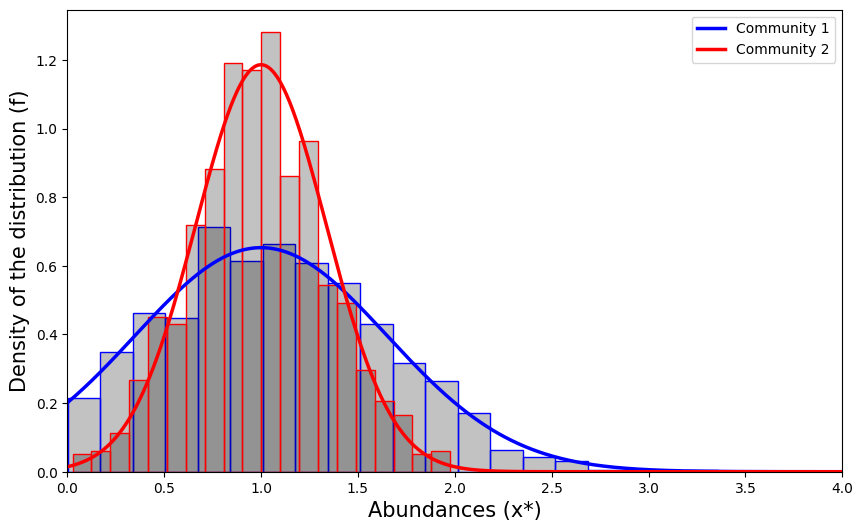
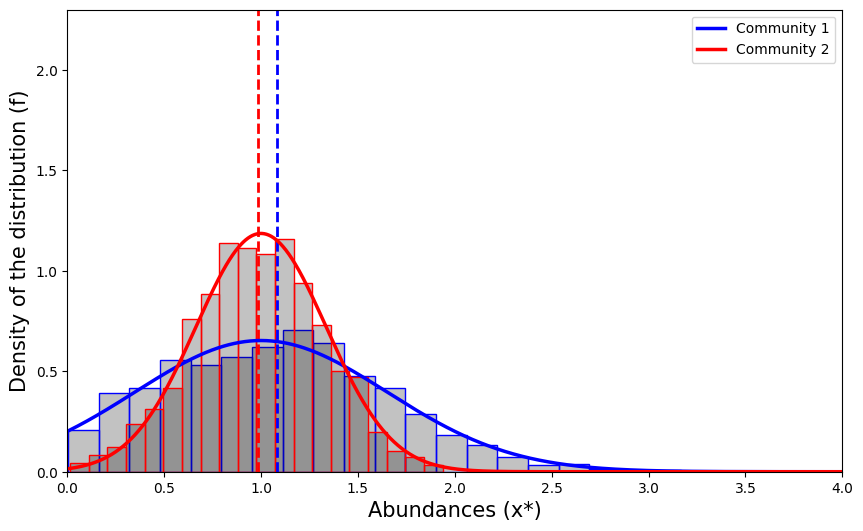
Update_Review

diff --git a/Code/Figure4-5.py b/Code/Figure4-5.py
@@ -84,10 +84,10 @@ def plot_distrib(mu, s, beta, B_size=2000, law_type='normal'):
     for i, v in enumerate(x):
         y_2[i] = block_density(v, 1, pi_1, pi_2, m_1, m_2,
                                sigma_1, sigma_2, mu, Sig, beta)
-    if law_type == 'normal':
-        plt.vlines(np.mean(res_lcp_pos_1),0,3,linewidth=2,linestyles = "dashed",color = "blue")
-        plt.vlines(np.mean(res_lcp_pos_2),0,3,linewidth=2,linestyles = "dashed",color = "red")
-        plt.ylim(0,2.3)
+    #if law_type == 'normal':
+    plt.vlines(np.mean(res_lcp_pos_1),0,3,linewidth=2,linestyles = "dashed",color = "blue")
+    plt.vlines(np.mean(res_lcp_pos_2),0,3,linewidth=2,linestyles = "dashed",color = "red")
+    plt.ylim(0,2.3)
 
     plt.plot(x, y_1, linewidth=2.5, color='blue', label='Community 1')
     plt.plot(x, y_2, linewidth=2.5, color='red', label='Community 2')
